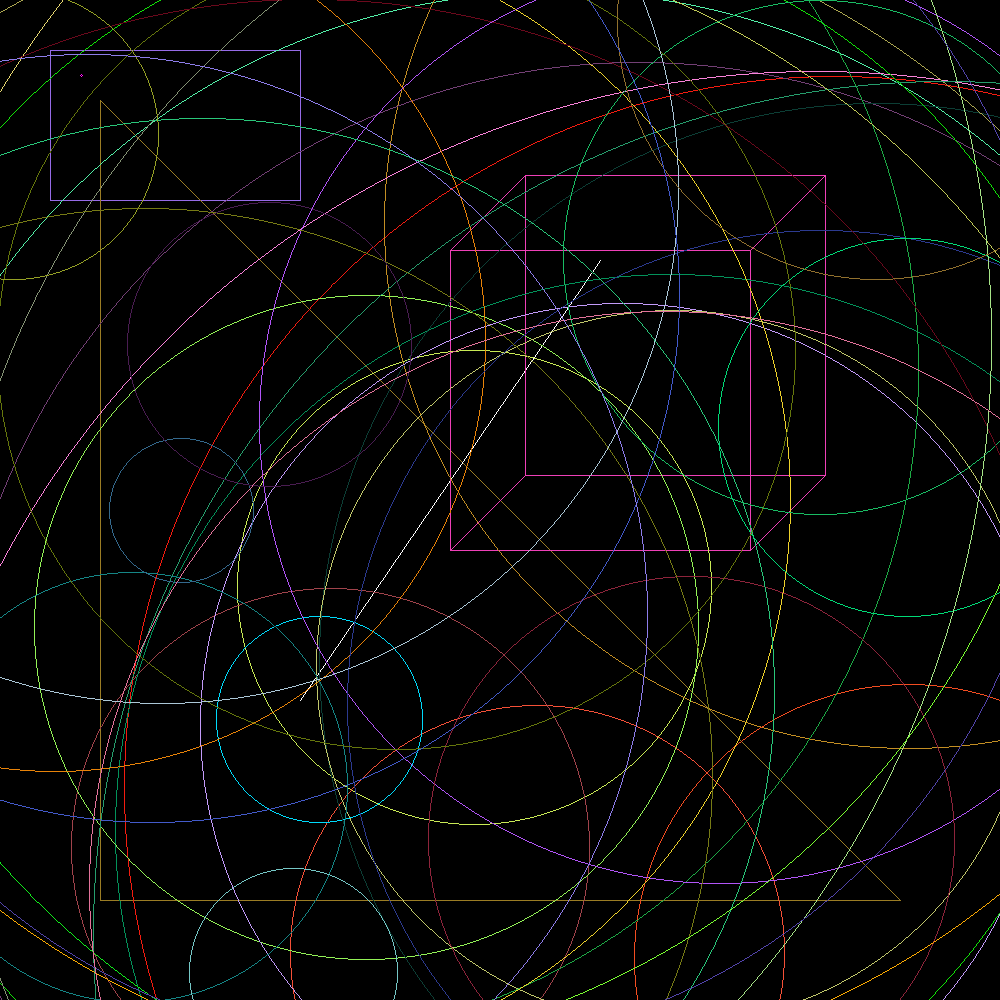
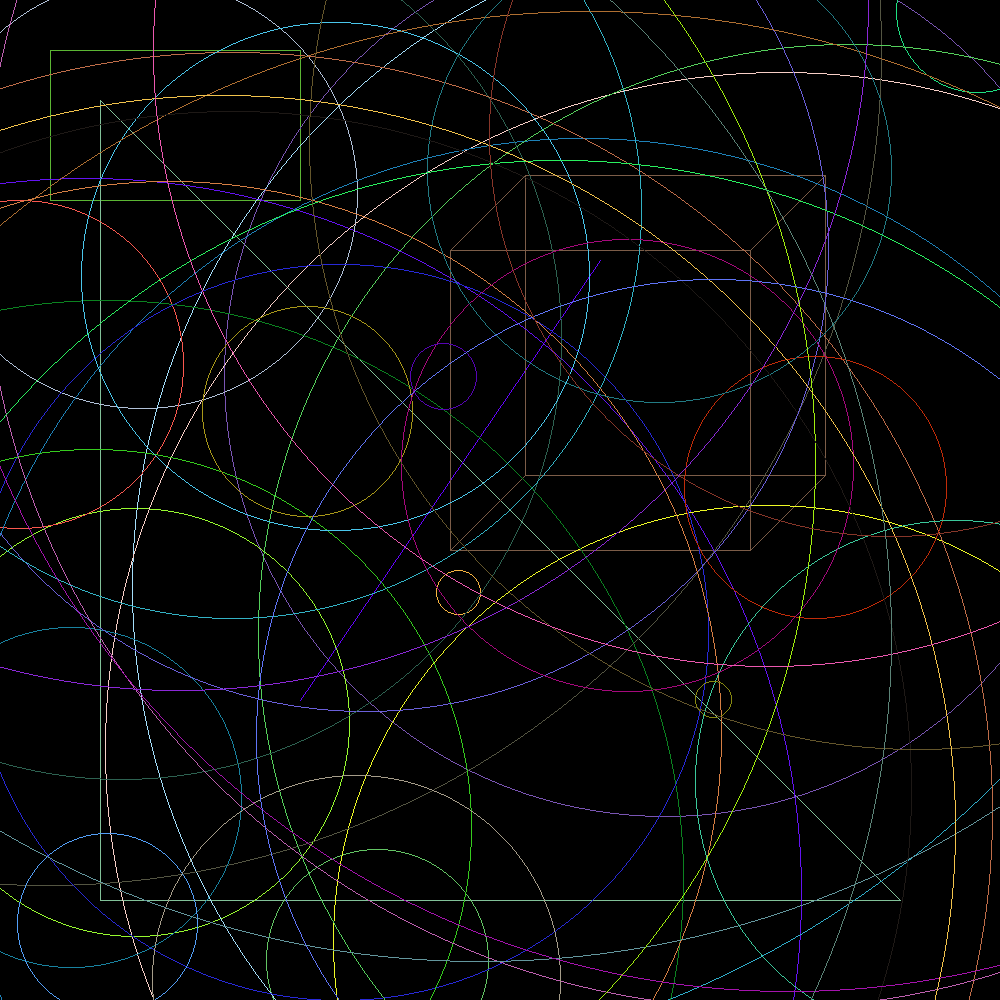
fix the random color for line (using two constructors)

diff --git a/GeometricalShapes/Shapes/Line.java b/GeometricalShapes/Shapes/Line.java
@@ -4,17 +4,29 @@ import GeometricalShapes.Displayable;
 import GeometricalShapes.Drawable;
 
 import java.awt.Color;
+import java.util.Random;
 
 public class Line implements Drawable {
     private final Point start;
     private final Point end;
     private final Color color;
 
+    public Line(Point start, Point end) {
+        this.start = start;
+        this.end = end;
+        this.color = randomColor();
+    }
+
     // Constructor with specified color
     public Line(Point start, Point end, Color color) {
         this.start = start;
         this.end = end;
         this.color = color;
+    }
+
+    private Color randomColor(){
+        Random rndNumber = new Random();
+        return new Color(rndNumber.nextInt(256), rndNumber.nextInt(256), rndNumber.nextInt(256));
     }
 
     // Getters

diff --git a/Main.java b/Main.java
@@ -1,5 +1,3 @@
-import java.awt.Color;
-
 import GeometricalShapes.Rendering.*;
 import GeometricalShapes.Shapes.*;
 
@@ -12,7 +10,7 @@ public class Main {
         triangle.draw(image);
 
 
-        Line line = new Line(new Point(600, 260), new Point(300,700), Color.WHITE);
+        Line line = new Line(new Point(600, 260), new Point(300,700));
         line.draw(image);
 
         Cube cube = new Cube(new Point(600, 400), 300);

diff --git a/GeometricalShapes/Shapes/Rectangle.java b/GeometricalShapes/Shapes/Rectangle.java
@@ -20,9 +20,6 @@ public class Rectangle implements Drawable {
         Random rndNumber = new Random();
         return new Color(rndNumber.nextInt(256), rndNumber.nextInt(256), rndNumber.nextInt(256));
     }
-    // private Color randomColor() {
-    //     return Color.WHITE;
-    // }
 
     public Point getTopLeft() {
         return topLeft;

diff --git a/GeometricalShapes/Shapes/Triangle.java b/GeometricalShapes/Shapes/Triangle.java
@@ -22,9 +22,6 @@ public class Triangle implements Drawable {
         Random rndNumber = new Random();
         return new Color(rndNumber.nextInt(256), rndNumber.nextInt(256), rndNumber.nextInt(256));
     }
-    // private Color randomColor() {
-    //     return Color.WHITE;
-    // }
 
     public Point getA() {
         return a;

diff --git a/GeometricalShapes/Shapes/Cube.java b/GeometricalShapes/Shapes/Cube.java
@@ -18,7 +18,7 @@ public class Cube implements Drawable {
         this.color = randomColor();
     }
 
-     private Color randomColor(){
+    private Color randomColor(){
         Random rndNumber = new Random();
         return new Color(rndNumber.nextInt(256), rndNumber.nextInt(256), rndNumber.nextInt(256));
     }
